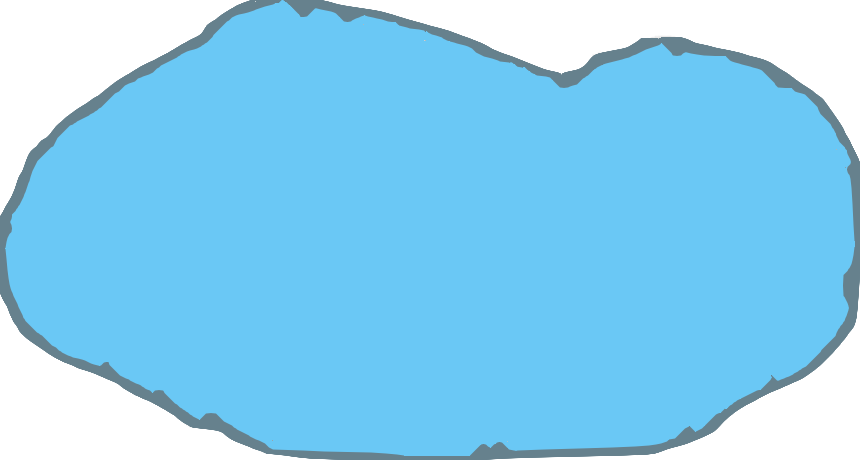
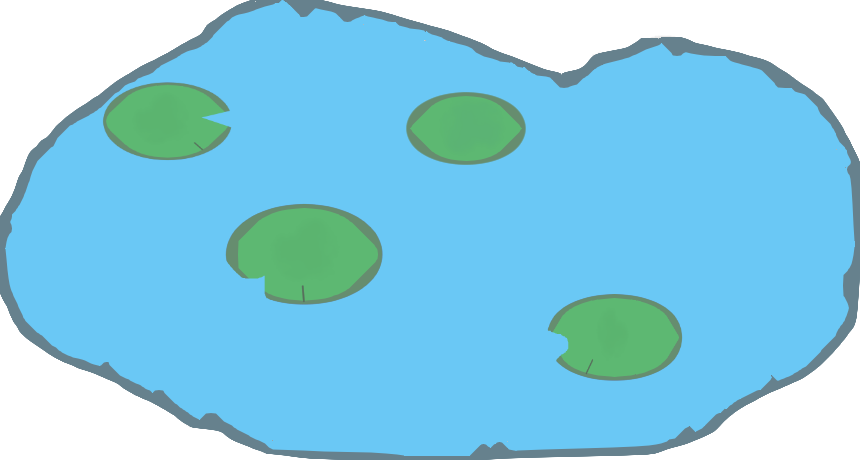
background tweaks for frogCrate

diff --git a/javascript/specificGames/FrogCrate/FrogCrateSpecifics.js b/javascript/specificGames/FrogCrate/FrogCrateSpecifics.js
@@ -125,12 +125,14 @@ const frogCrateGame = new frogCrateGameClass();
 function FrogCrateBackground()
 {
   this.waterImage = frogRiverBackgroundImage;
+  this.grassImage = snakeGrassBackground;
   this.skyImage = skyBackground;
   this.bathStoneImage = bathStoneImage;
   this.draw = function()
   {
-    gameCanvasContext.drawImage(this.skyImage, 0,0, gameCanvas.width,gameCanvas.height*0.3);
-    gameCanvasContext.drawImage(this.waterImage, 0,gameCanvas.height*0.3, gameCanvas.width,gameCanvas.height*0.7);
+    gameCanvasContext.drawImage(this.skyImage, 0,0, gameCanvas.width,gameCanvas.height);
+    gameCanvasContext.drawImage(this.grassImage, 0,gameCanvas.height*0.35, gameCanvas.width,gameCanvas.height*0.75);
+    gameCanvasContext.drawImage(this.waterImage, 0,gameCanvas.height*0.4, gameCanvas.width,gameCanvas.height*0.5);
     gameCanvasContext.drawImage(this.bathStoneImage, 0,gameCanvas.height*0.9, gameCanvas.width,gameCanvas.height*0.15);
   }
 }

diff --git a/javascript/imageLoading.js b/javascript/imageLoading.js
@@ -744,7 +744,7 @@ function loadImages()
 
 
   //frog
-  arrayOfImagesToLoad.push({imageObjectBinding: frogRiverBackgroundImage, theFile: "images/Backgrounds/river.png", loaded: false});
+  arrayOfImagesToLoad.push({imageObjectBinding: frogRiverBackgroundImage, theFile: "images/Backgrounds/Lake.png", loaded: false});
   arrayOfImagesToLoad.push({imageObjectBinding: lilyImage1, theFile: "images/sprites/frogRiver/lilyImage1.png", loaded: false});
   arrayOfImagesToLoad.push({imageObjectBinding: lilyImage2, theFile: "images/sprites/frogRiver/lilyImage2.png", loaded: false});
   arrayOfImagesToLoad.push({imageObjectBinding: lilyImage3, theFile: "images/sprites/frogRiver/lilyImage3.png", loaded: false});
